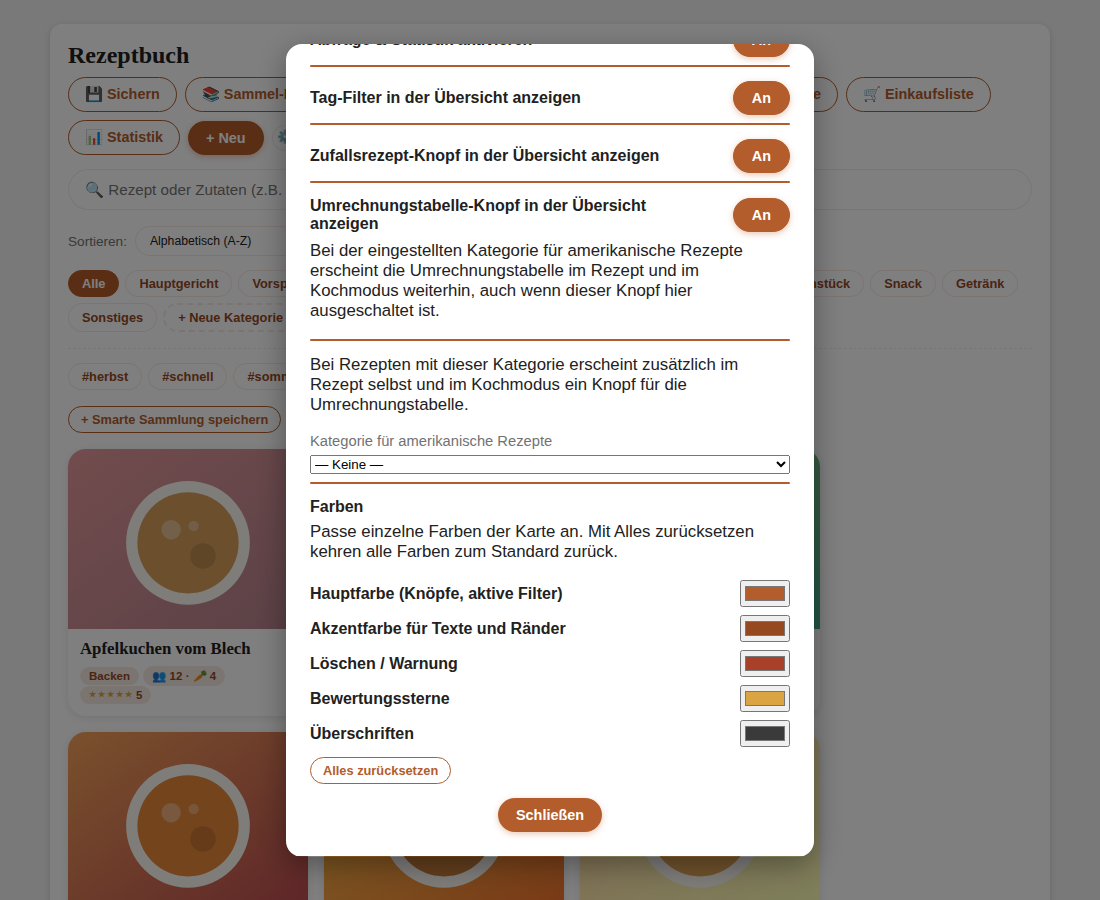
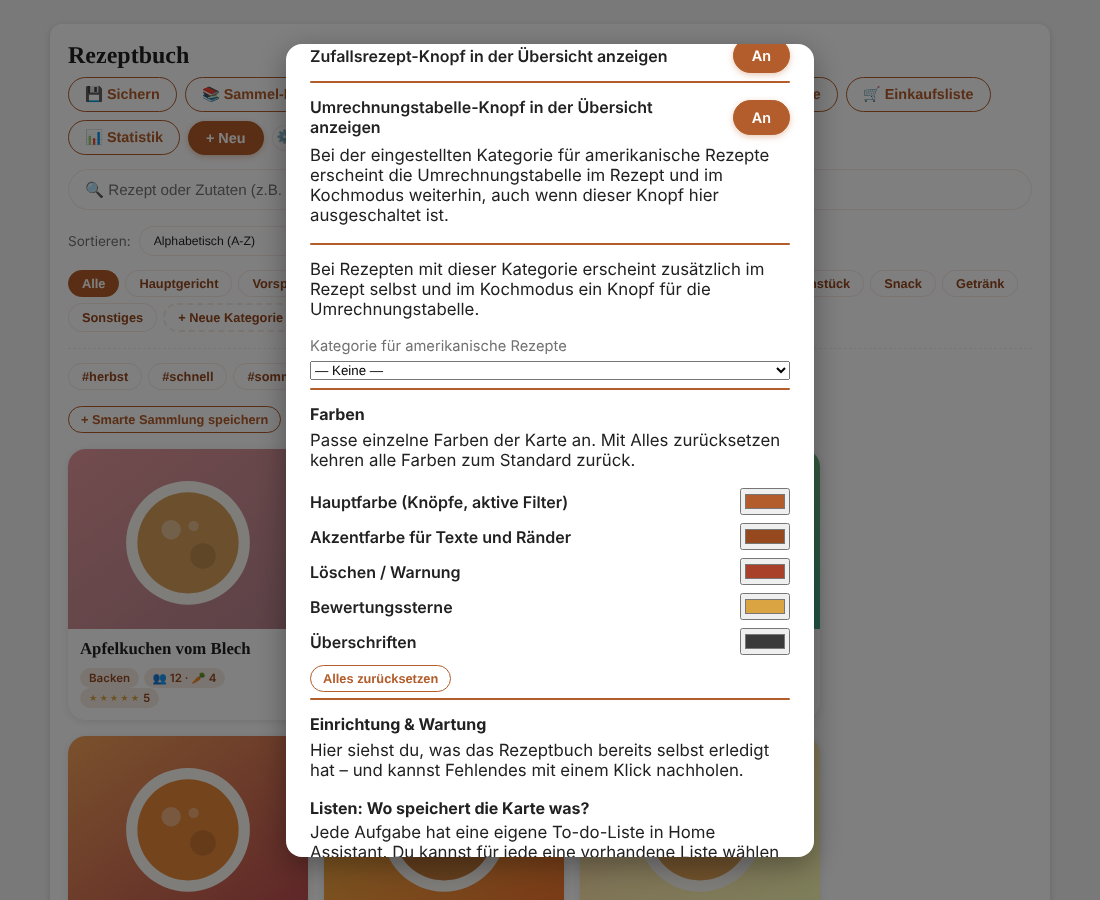
Screenshots aktualisiert, neue Ansichten in der README

diff --git a/scripts/screenshots_erzeugen.js b/scripts/screenshots_erzeugen.js
@@ -37,7 +37,7 @@ const REZEPTE = [
 ].map((r, i) => ({
   title: r.t,
   payload: {
-    schemaVersion: 1, servings: r.p, category: r.k, tags: r.tags, image: r.f,
+    schemaVersion: 1, servings: r.p, category: r.k, tags: r.tags, image: r.f, images: i === 0 ? [foto("#bc4b51", "#f4a259", "#c1440e"), foto("#8cb369", "#e9c46a", "#7a9e3c")] : [],
     ingredients: r.zutaten.map(([amount, unit, name]) => ({ amount, unit, name })),
     steps: r.schritte,
     ratings: Object.fromEntries(r.bew.map((w, j) => ["demo-" + j, w])),
@@ -55,11 +55,11 @@ const HA_STIL = (dunkel) => `
   rezeptbuch-card { display:block; max-width:1000px; margin:0 auto; }
 `;
 
-async function neueSeite(browser, { breite = 1100, hoehe = 820, dunkel = false, farben = null } = {}) {
+async function neueSeite(browser, { breite = 1100, hoehe = 820, dunkel = false, farben = null, leerStart = false } = {}) {
   const page = await browser.newPage({ viewport: { width: breite, height: hoehe } });
   await page.addStyleTag({ content: HA_STIL(dunkel) });
   await page.addScriptTag({ path: KARTEN_DATEI });
-  await page.evaluate(({ rezepte, farben }) => {
+  await page.evaluate(({ rezepte, farben, leerStart }) => {
     // Nachbau von <ha-card> (in Home Assistant ein eigenes Element mit Karten-Optik).
     if (!customElements.get("ha-card")) {
       customElements.define("ha-card", class extends HTMLElement {
@@ -79,6 +79,13 @@ async function neueSeite(browser, { breite = 1100, hoehe = 820, dunkel = false, 
     window.__speicher = speicher;
     const hass = {
       language: "de", user: { id: "demo-user", name: "Demo", is_admin: true },
+      states: leerStart ? {} : {
+        "todo.rezepte": { state: "8", attributes: { friendly_name: "Rezepte" } },
+        "todo.einkaufsliste": { state: "0", attributes: { friendly_name: "Einkaufsliste" } },
+        "todo.rezepte_backup": { state: "1", attributes: { friendly_name: "Rezepte Backup" } },
+        "todo.party_einkauf": { state: "0", attributes: { friendly_name: "Party-Einkauf" } },
+      },
+      services: { shell_command: { rezeptbuch_url_importieren: {} } },
       callService: async (domain, service, d) => {
         if (domain !== "todo") throw new Error("nicht simuliert");
         if (service === "update_item") { const e = speicher.find((i) => i.uid === d.item || i.summary === d.item); if (e && d.description !== undefined) e.description = d.description; }
@@ -91,7 +98,7 @@ async function neueSeite(browser, { breite = 1100, hoehe = 820, dunkel = false, 
     document.body.appendChild(karte);
     karte.hass = hass;
     window.__karte = karte;
-  }, { rezepte: REZEPTE, farben });
+  }, { rezepte: REZEPTE, farben, leerStart });
   await page.waitForFunction(() => window.__karte._geladen === true);
   await page.waitForTimeout(300);
   return page;
@@ -141,6 +148,24 @@ async function seitenShot(page, datei) {
     });
     await page.waitForTimeout(200);
     await seitenShot(page, "einstellungen-farben.png");
+    await page.close();
+
+    page = await neueSeite(browser, { hoehe: 1100 });
+    await page.evaluate(async () => {
+      const karte = window.__karte;
+      karte.shadowRoot.getElementById("statistik-einstellungen-btn").click();
+      await karte._einrichtungBereichAktualisieren();
+      const bereich = karte.shadowRoot.getElementById("einrichtung-bereich");
+      bereich.scrollIntoView({ block: "start" });
+    });
+    await page.waitForTimeout(300);
+    await seitenShot(page, "einstellungen-listen.png");
+    await page.close();
+
+    page = await neueSeite(browser, { hoehe: 500, leerStart: true });
+    await page.evaluate(() => window.__karte._rezepteLaden());
+    await page.waitForTimeout(300);
+    await kartenShot(page, "willkommen.png");
     await page.close();
 
     page = await neueSeite(browser, { farben: { akzent: "#2b7cb2", akzentText: "#1d5a85", sterne: "#e63946" } });

diff --git a/README.md b/README.md
@@ -87,6 +87,15 @@ Hauptfarbe, Akzentfarbe, Lösch-/Warnfarbe, Bewertungssterne und
   </tr>
 </table>
 
+### Selbst einrichten und Listen verwalten
+
+<table>
+  <tr>
+    <td width="60%" valign="top"><img src="https://raw.githubusercontent.com/Chrism1412/rezeptbuch-card/main/docs/screenshots/einstellungen-listen.png" alt="Einstellungen: je eine Karte für Rezeptliste, Einkaufsliste und Sicherung mit Auswahl vorhandener Listen und Anlegen einer neuen Liste"></td>
+    <td width="40%" valign="top"><img src="https://raw.githubusercontent.com/Chrism1412/rezeptbuch-card/main/docs/screenshots/willkommen.png" alt="Willkommens-Ansicht, wenn die Rezeptliste noch fehlt, mit dem Knopf Jetzt automatisch einrichten"></td>
+  </tr>
+</table>
+
 ## Funktionen
 
 - Rezepte anlegen, bearbeiten, löschen, nach Kategorie/Suchbegriff filtern
